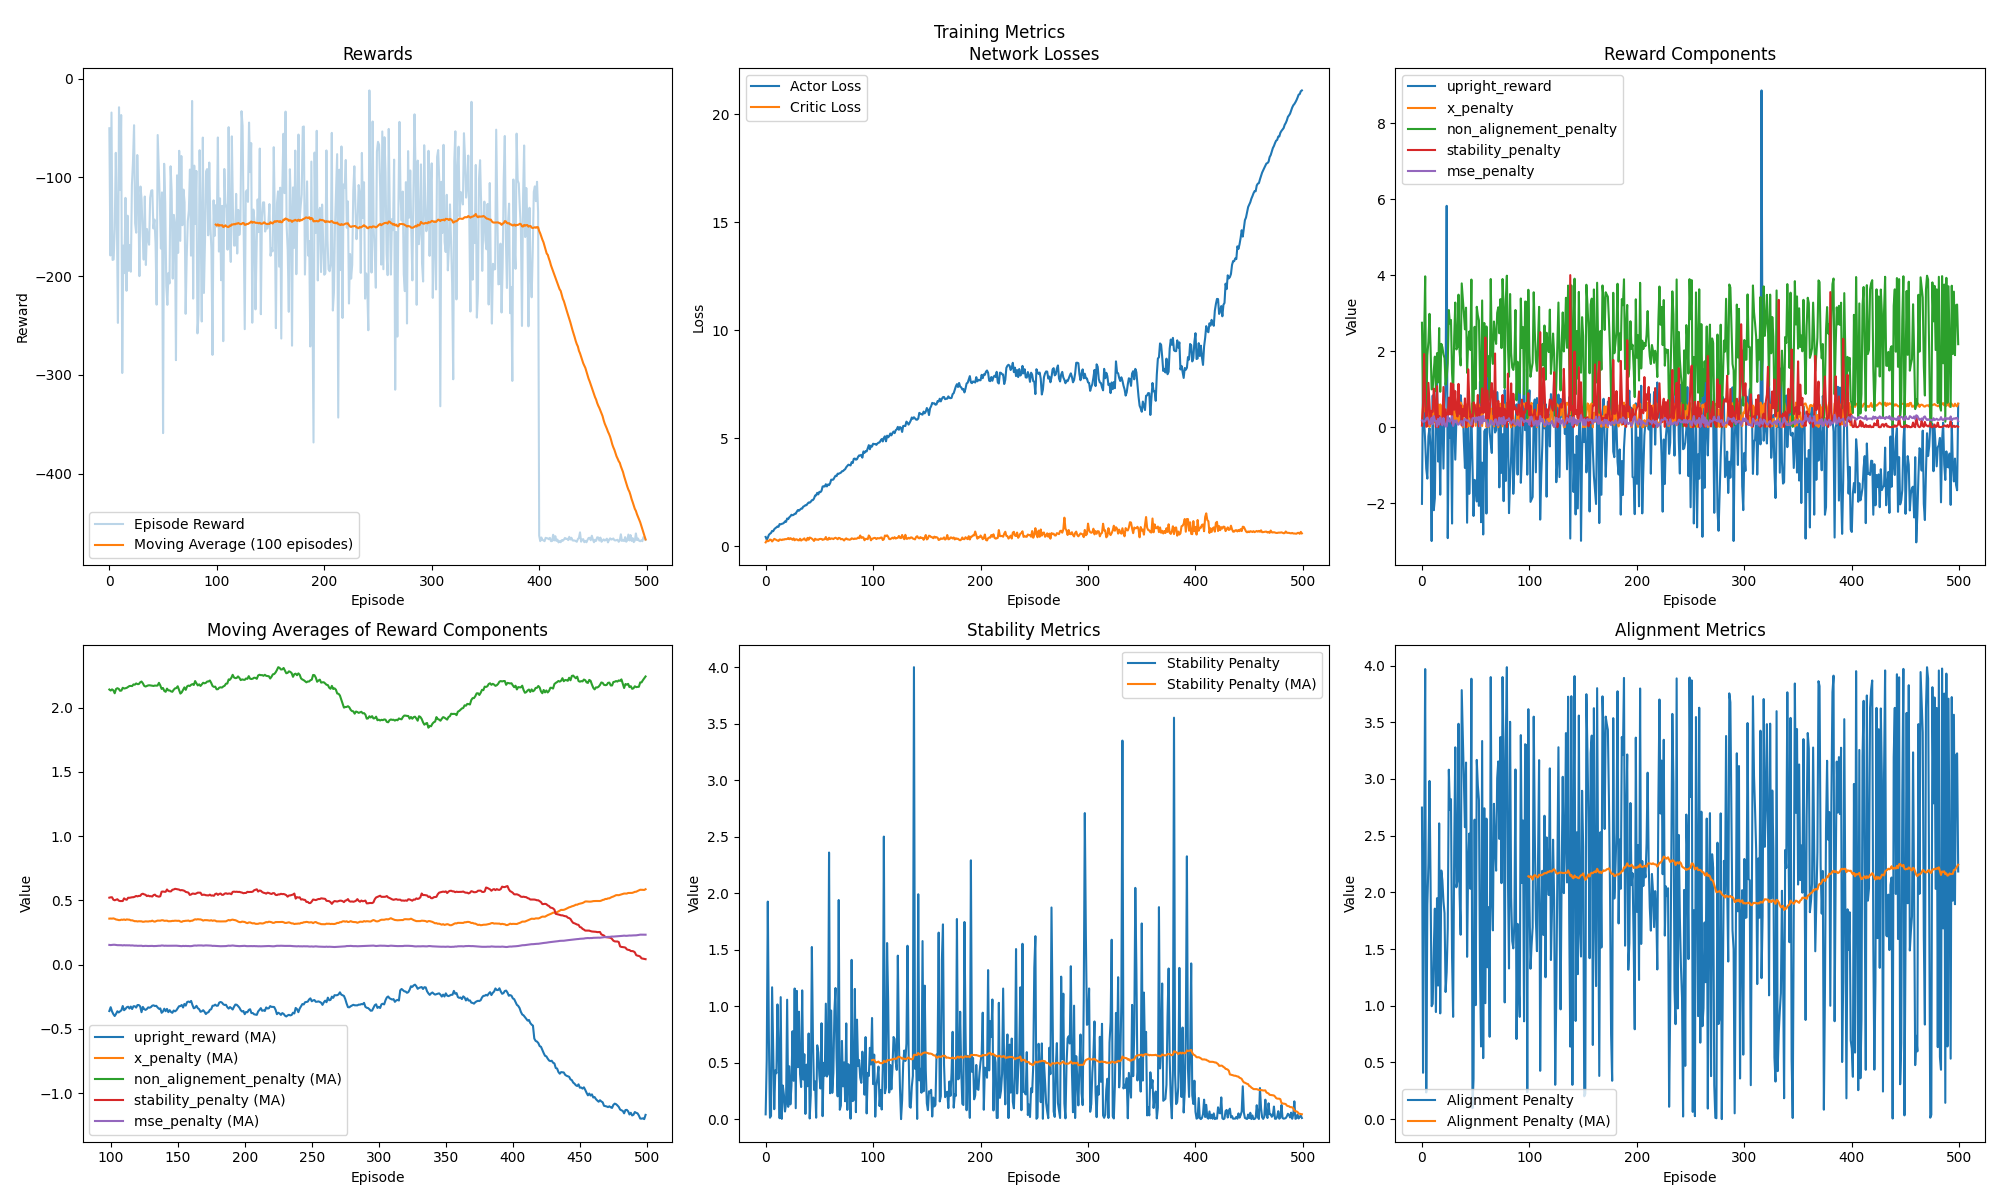
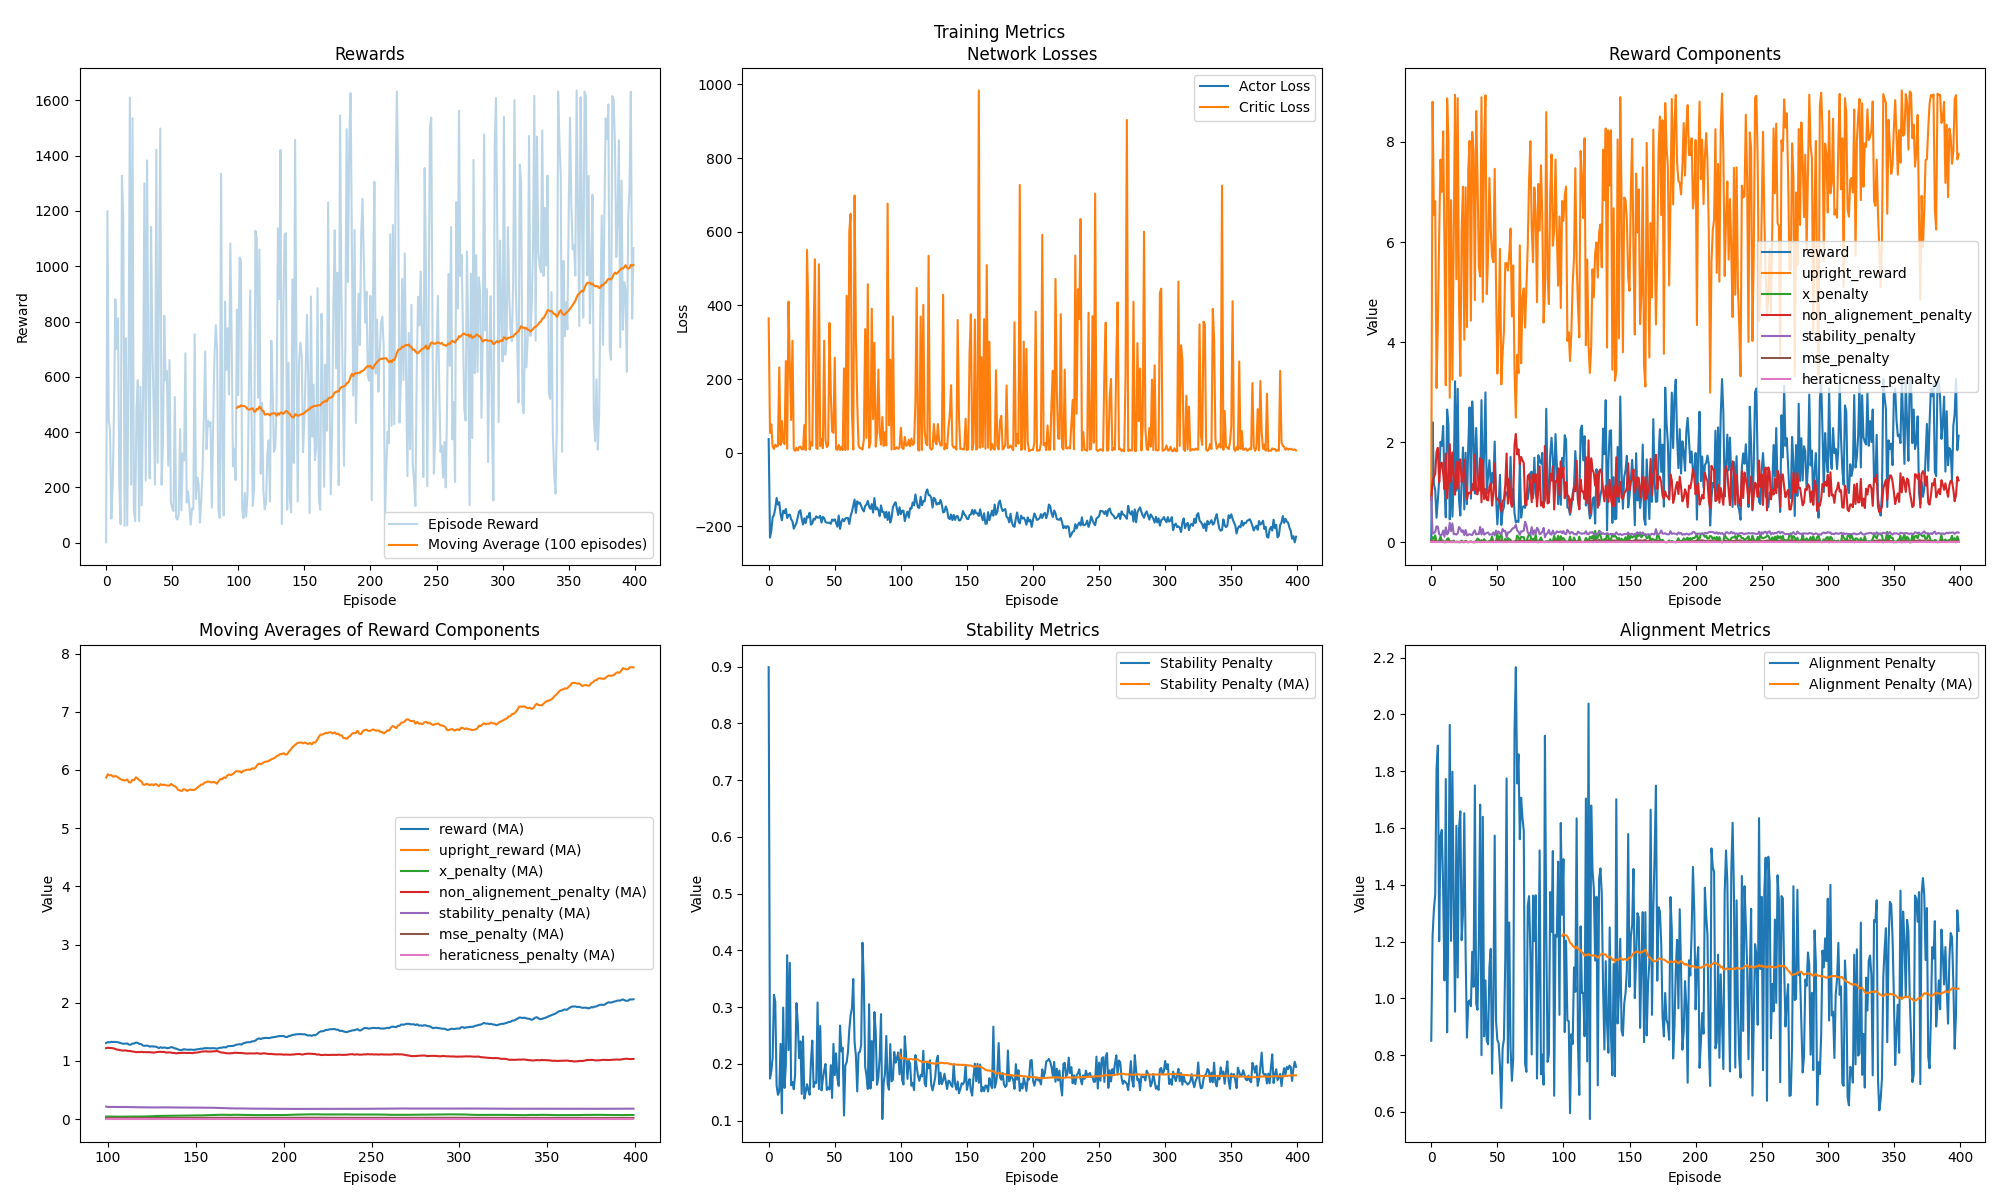
heraticness penalty

diff --git a/train.py b/train.py
@@ -56,14 +56,14 @@ class TriplePendulumTrainer:
         # Ajustement de la dimension d'état en fonction de l'environnement réel
         # Ici, la dimension est basée sur la taille de l'état retourné par reset()
         self.env.reset()
-        self.old_state = self.env.get_state()
-        initial_state = self.env.get_state()
+        self.old_state = self.env.get_state(action = 0)
+        initial_state = self.env.get_state(action = 0)
         state_dim = len(initial_state) * 2
         action_dim = 1
         self.actor = TriplePendulumActor(state_dim, action_dim, config['hidden_dim'])
         self.critic = TriplePendulumCritic(state_dim, action_dim, config['hidden_dim'])
-        self.num_exploration_episodes = 400
-
+        self.num_exploration_episodes = 1
+        
         # Optimizers
         self.actor_optimizer = torch.optim.Adam(self.actor.parameters(), lr=config['actor_lr'])
         self.critic_optimizer = torch.optim.Adam(self.critic.parameters(), lr=config['critic_lr'])
@@ -121,7 +121,7 @@ class TriplePendulumTrainer:
         done = False
         trajectory = []
         episode_reward = 0
-        reward_components = {}
+        reward_components_accumulated = {}
         num_steps = 0
         
         # Réinitialiser le RewardManager et le bruit
@@ -132,9 +132,11 @@ class TriplePendulumTrainer:
         last_action = 0
         action_history = []
         exploration_phase = episode < self.num_exploration_episodes  # Phase d'exploration initiale
+
+
         
         while not done and num_steps < self.max_steps:
-            current_state = self.env.get_state()
+            current_state = self.env.get_state(action = last_action)
             old_and_current_state = np.concatenate((self.old_state, current_state))
             old_and_current_state_tensor = torch.FloatTensor(old_and_current_state)
             
@@ -173,8 +175,7 @@ class TriplePendulumTrainer:
                     raise ValueError("Warning: Rendering failed")
             
             # Calculate custom reward and components
-            custom_reward, _, _, _, _, _, force_terminated = self.reward_manager.calculate_reward(next_state, terminated, num_steps)
-            reward_components = self.reward_manager.get_reward_components(next_state, num_steps)
+            custom_reward, reward_components, force_terminated = self.reward_manager.calculate_reward(next_state, terminated, num_steps, action)
             
             # Store transition in replay buffer with normalized reward
             current_and_next_state = np.concatenate((current_state, next_state))
@@ -189,15 +190,21 @@ class TriplePendulumTrainer:
             num_steps += 1
             self.old_state = current_state
 
+            for component_name, value in reward_components.items():
+                if component_name not in reward_components_accumulated:
+                    reward_components_accumulated[component_name] = []
+                reward_components_accumulated[component_name].append(value)
+
             if terminated or force_terminated:
                 done = True
                 break
+            
             
         # Decay exploration parameters
         self.epsilon = max(self.min_epsilon, self.epsilon * self.epsilon_decay)
         print(f"Episode {episode} ended with {num_steps} steps")
 
-        return trajectory, episode_reward, reward_components
+        return trajectory, episode_reward, reward_components_accumulated
     
     def update_networks(self):
         if len(self.memory) < self.config['batch_size']:
@@ -252,7 +259,7 @@ class TriplePendulumTrainer:
                 self.env.render_mode = None
                 
             # Collect trajectory and store in replay buffer
-            trajectory, episode_reward, reward_components = self.collect_trajectory(episode)
+            trajectory, episode_reward, reward_components_accumulated = self.collect_trajectory(episode)
             
             # Only update after we have enough samples
             losses = {"critic_loss": 0, "actor_loss": 0}
@@ -274,8 +281,10 @@ class TriplePendulumTrainer:
             self.metrics.add_metric('critic_loss', losses['critic_loss'])
             
             # Track reward components
-            for component_name, value in reward_components.items():
-                self.metrics.add_metric(component_name, value)
+            for component_name, values in reward_components_accumulated.items():
+                values = np.array(values)
+                avg_value = np.mean(values)
+                self.metrics.add_metric(component_name, avg_value)
             
             # Génération des graphiques selon la fréquence configurée
             if episode % self.plot_frequency == self.plot_frequency - 1:

diff --git a/tp_env.py b/tp_env.py
@@ -139,7 +139,7 @@ class TriplePendulumEnv:
     def reset(self):
         # Initialisation de l'état
         position_initiale_chariot = 0.0
-        rd_angle = -pi/2 # rd.uniform(-pi, pi)
+        rd_angle = pi/2 # rd.uniform(-pi, pi)
         angles_initiaux = [rd_angle] + [rd_angle] * (len(self.positions) - 2)
         vitesses_initiales = 0.0
         state = hstack((
@@ -210,7 +210,7 @@ class TriplePendulumEnv:
         # Retourne un état de base avec uniquement les positions
         return adapted_state, position_x1, position_y1, position_x2, position_y2, position_x3, position_y3
     
-    def get_state(self):
+    def get_state(self, action = 0):
         """
         Renvoie l'état courant du système enrichi avec des combinaisons de features.
         """
@@ -225,9 +225,11 @@ class TriplePendulumEnv:
         adapted_state, position_x1, position_y1, position_x2, position_y2, position_x3, position_y3 = base_result
 
         # ---------------- Reward Components -----------------------
-        reward_components = self.reward_manager.get_reward_components(
+        _, reward_components, _ = self.reward_manager.calculate_reward (
             np.hstack((adapted_state, position_x1, position_y1, position_x2, position_y2, position_x3, position_y3)),
-            self.num_steps
+            False,
+            self.num_steps,
+            action
         )
         
         x_penalty = reward_components['x_penalty']
@@ -246,6 +248,8 @@ class TriplePendulumEnv:
         near_border = float(abs(adapted_state[0]) > 1.6)
         end_node_y = position_y3 if self.n == 3 else position_y2 if self.n == 2 else position_y1
         end_node_upright = float(end_node_y > self.reward_manager.max_height * self.reward_manager.threshold_ratio)
+        is_node_on_right_of_cart = float(position_x3 > adapted_state[0])
+        normalized_steps = self.num_steps / 500
 
         # ----------------- Feature Engineering -------------------
         q1, q2, q3 = adapted_state[1:4]
@@ -293,7 +297,8 @@ class TriplePendulumEnv:
             position_x1, position_y1, position_x2, position_y2, position_x3, position_y3,
             x_penalty, upright_reward, non_alignement_penalty, stability_penalty, mse_penalty,
             consecutive_upright_steps, have_been_upright_once, came_back_down, steps_double_down,
-            near_border, end_node_y, end_node_upright, time_over_threshold, smoothed_variation,
+            near_border, end_node_y, end_node_upright, time_over_threshold, smoothed_variation, 
+            is_node_on_right_of_cart, normalized_steps,
             sin_diff_12, cos_sum_23, v1_angle1, v2_angle2,
             KE, PE, d12, d23
         ))
@@ -354,7 +359,7 @@ class TriplePendulumEnv:
 
         terminated = False # abs(self.current_state[0]) > 1.6
         
-        return self.get_state(), terminated
+        return self.get_state(action), terminated
         
     def render(self, episode = 0, epsilon = 0, current_step = 0):
         """
@@ -455,7 +460,7 @@ class TriplePendulumEnv:
                 ))
                 
                 # Récupérer les composants de récompense
-                reward_components = self.reward_manager.get_reward_components(temp_state, current_step)
+                _, reward_components, _ = self.reward_manager.calculate_reward(temp_state, False, current_step, self.applied_force)
                 
                 # Dessiner un conteneur pour les récompenses
                 reward_panel_width = 300
@@ -652,7 +657,7 @@ class TriplePendulumEnv:
                         
                         # Afficher également les composants de récompense si disponibles
                         if self.reward_manager is not None:
-                            reward_components = self.reward_manager.get_reward_components(state, self.num_steps)
+                            _, reward_components, _ = self.reward_manager.calculate_reward(state, False, self.num_steps)
                             print('------- Composants de récompense -------')
                             for component, value in reward_components.items():
                                 print(f'{component}: {value:.4f}')

diff --git a/reward.py b/reward.py
@@ -66,7 +66,7 @@ class RewardManager:
         self.old_angles = [0.0, 0.0, 0.0]
         self.old_alignement_penalty = None
 
-    def calculate_reward(self, state, terminated, current_step):
+    def calculate_reward(self, state, terminated, current_step, action = 0):
         """
         Calculate the reward based on the current state and termination status.
         
@@ -99,6 +99,7 @@ class RewardManager:
         # ----------------------- REWARD COMPONENTS -----------------------
         if current_step == 0 and self.update_step == 0:
             self.old_points_positions = [x, x1, y1, x2, y2, x3, y3]
+            self.old_force = action
             self.update_step = current_step
         
         # ----------------------- CART AND NODES POSITION REWARD -----------------------
@@ -183,40 +184,42 @@ class RewardManager:
 
         self.prev_output = end_node_y
 
-        # Compute the score
-        reward = self.time_over_threshold / (1 + self.smoothed_variation) + max(end_node_y * 5, 0)
-
-        # Normalize reward
+        # ----------------------- BORDER PENALTY -----------------------
         border_penalty = 0.0
         if x < -1.6 or x > 1.6:
             border_penalty = 1
-        reward = np.sqrt((reward / 25) * ((2 * np.pi) ** (-0.5) * np.exp(-(x) ** 2))) - border_penalty
 
+        # ----------------------- HERATICNESS PENALTY -----------------------
+        heraticness_penalty = 0.0
+        if self.old_points_positions :
+            heraticness_penalty = abs(self.old_force - f)
+            print(heraticness_penalty)
+
+        # Compute the score
+        reward = self.time_over_threshold / (1 + self.smoothed_variation) + max(end_node_y * 5, 0) 
+
+        # Normalize reward
+        reward = np.sqrt((reward / 25) * ((2 * np.pi) ** (-0.5) * np.exp(-(x) ** 2))) - border_penalty - heraticness_penalty
+        
         # Apply termination penalty
         if terminated:
             reward -= self.termination_penalty
 
-        if end_node_y < 0.0 and self.have_been_upright_once and False:
+        if end_node_y < 0.0:
             self.force_terminated = True
             reward -= 3
         
-        return reward, upright_reward, x_cart_penalty, non_alignement_penalty, stability_penalty, mse_penalty, self.force_terminated
-    
-    def get_reward_components(self, state, current_step):
-        reward, upright_reward, x_cart_penalty, non_alignement_penalty, stability_penalty, mse_penalty, force_terminated = self.calculate_reward(state, False, current_step)
-        return {
+        components_dict = {
+            'reward': reward,
             'x_penalty': x_cart_penalty,
             'non_alignement_penalty': non_alignement_penalty,
             'upright_reward': upright_reward,
             'stability_penalty': stability_penalty,
             'mse_penalty': mse_penalty,
-            'reward': reward,
-            'force_terminated': force_terminated,
-            'consecutive_upright_steps': self.consecutive_upright_steps,
-            'have_been_upright_once': self.have_been_upright_once,
-            'came_back_down': self.came_back_down,
-            'steps_double_down': self.steps_double_down
+            'heraticness_penalty': heraticness_penalty,
         }
+
+        return reward, components_dict, self.force_terminated
 
     def reset(self):
         """Reset the reward manager state"""

diff --git a/config.py b/config.py
@@ -7,15 +7,15 @@ config = {
     'hidden_dim': 512,
     'buffer_capacity': 25_000,
     'updates_per_episode': 10,
-    'load_models': False,
+    'load_models': True,
     'num_nodes': 2,
-    'gravity': 0.81,
+    'gravity': 9.81,
     'friction_coefficient': 0.1,
     
     # Options de visualisation et de plots
     'plot_config': {
         'enable_plots': True,           # Activer/désactiver tous les graphiques
-        'plot_frequency': 500,          # Fréquence de génération des graphiques principaux
+        'plot_frequency': 200,          # Fréquence de génération des graphiques principaux
         'full_plot_frequency': 1_000,    # Fréquence de génération des graphiques complets
         'max_points_per_plot': 1_000,    # Nombre maximal de points par graphique
         'plot_dpi': 100                 # Résolution des graphiques (DPI)

diff --git a/metrics.py b/metrics.py
@@ -88,8 +88,7 @@ class MetricsTracker:
         
         # Plot reward components
         ax = axes[0, 2]
-        reward_components = ['upright_reward', 'x_penalty', 
-                           'non_alignement_penalty', 'stability_penalty', 'mse_penalty']
+        reward_components = ['reward', 'upright_reward', 'x_penalty','non_alignement_penalty', 'stability_penalty', 'mse_penalty', 'heraticness_penalty']
         for component in reward_components:
             if component in self.metrics and len(self.metrics[component]) > 0:
                 comp_ds, comp_indices = self._downsample_if_needed(self.metrics[component])
